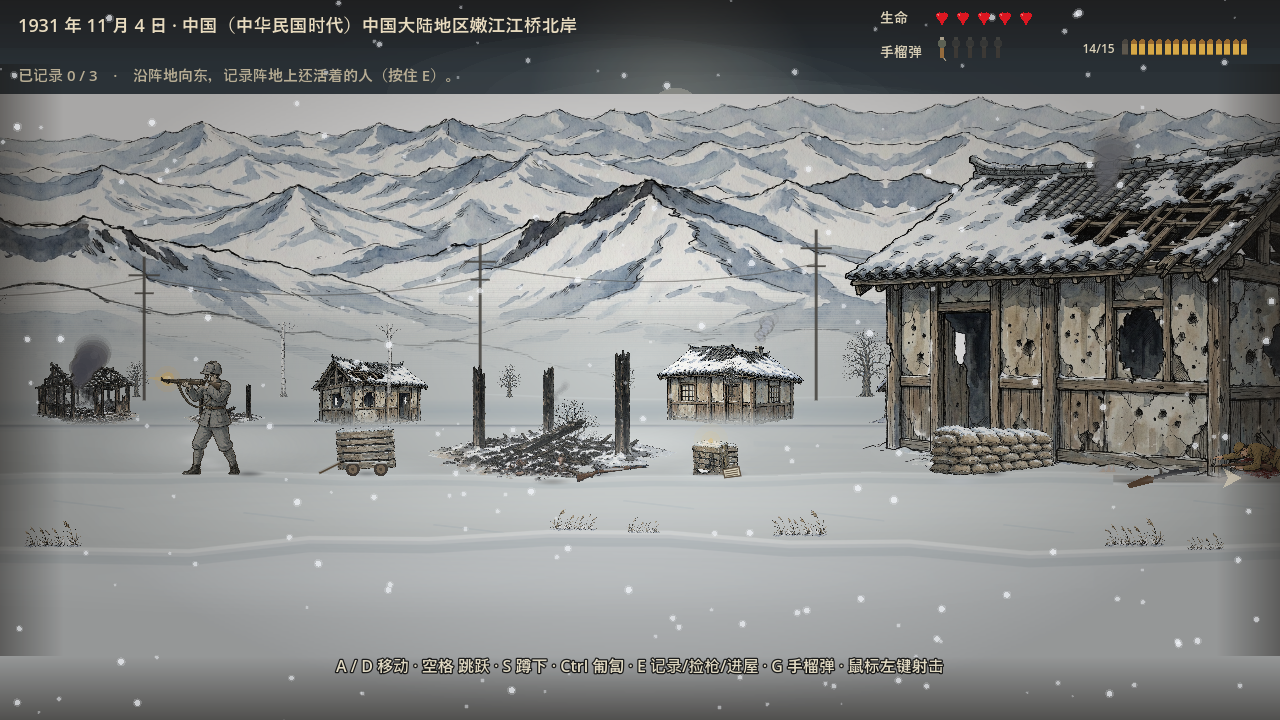
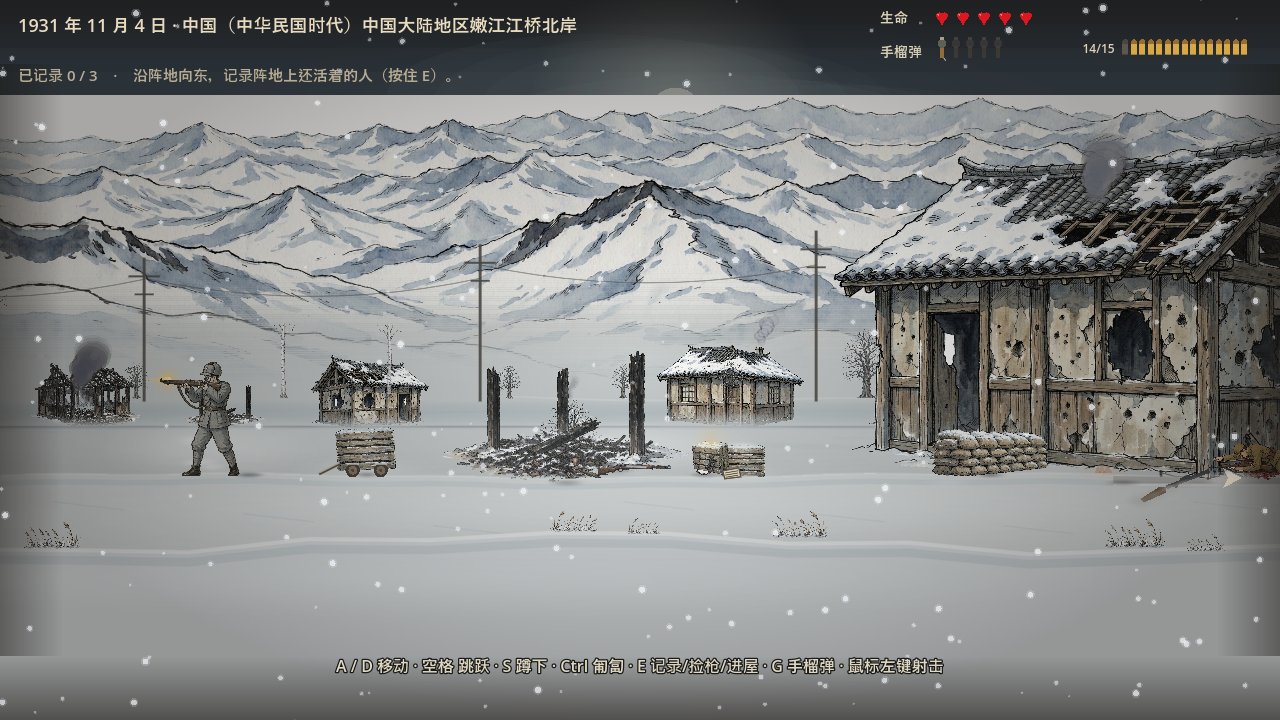
v3.25 the track has to run onto the bridge
The player played it again and found the last thing that still read as fake:
the bridge and the rails do not connect. The span looked like a texture
dropped on top of the field with no link to the track in front of it.

The cause was the draw order. The railway was painted first and the bridge
was painted over the end of it, so the line simply stopped in open snow a
few pixels short of the span - the rails vanished under the bridge's west
edge and the bridge stood next to them like a separate picture.

The span is laid down first now and the track is laid over it:

  - the ballast bed and the sleepers of the open field stop at the west
    end of the deck (a railway bridge carries its track on a steel plate,
    it has no ballast)
  - the same ties carry on over the deck, shallower because on a steel
    deck they lie flat instead of sunk in ballast, and in the same tone
    as the field's so the two halves are one line
  - both rails run across the deck and stop at the collapsed span (source
    column 870 of bridge.png), where they end in twisted steel and broken
    sleepers instead of a clean cut
  - the ties in the last 150px before the deck are never skipped - one
    missing tie left a bare strip of ballast at the joint and the line
    read as cut off again
  - the shell damage to the track stops before the bridge, so no twisted
    stubs grow out of the deck

The bridge frame is also frozen at a fixed x for the gallery shot, it used
[…]

diff --git a/scripts/JiangqiaoLevel.cs b/scripts/JiangqiaoLevel.cs
@@ -2754,6 +2754,20 @@ public partial class JiangqiaoLevel : Node2D
         private float[] _crateRot = System.Array.Empty<float>();
         private int[] _railSkipIdx = System.Array.Empty<int>();       // 被去掉的枕木序号（破损感）
         private float[] _railDmgX = System.Array.Empty<float>();      // shell damage spots along the whole rail line
+
+        /// <summary>
+        /// Where the span stands in world coordinates, measured off
+        /// bridge.png (1530x812, drawn with a vertical scale of 420/812 and
+        /// shifted 48px east): the deck starts at source column 9 and the
+        /// collapsed span begins at source column 870.
+        ///
+        /// v3.25: the railway needs both numbers. The track has to run
+        /// onto the deck and stop at the wreck - otherwise the line is cut
+        /// off in front of the bridge and the two read as two pictures
+        /// laid side by side with nothing joining them.
+        /// </summary>
+        private const float BridgeDeckX = 4457f;
+        private const float BridgeWreckX = 4902f;
         private int[] _trussSkipDiags = System.Array.Empty<int>();    // 桥桁架被去掉的斜腹杆
         private int[] _pierDamageIdx = System.Array.Empty<int>();     // 被炮弹蹭过的桥墩（画烧黑斑）
 
@@ -2814,9 +2828,12 @@ public partial class JiangqiaoLevel : Node2D
 
             // shell damage strung out along the whole run of track, not only
             // where the big craters sit - shelling never lands in one spot
+            // v3.25: it stops before the bridge. The track on the span has
+            // no sleepers to twist, and the twisted stubs would have been
+            // painted over the deck.
             var railDmg = new List<float>();
             float dmgX = 2620f;
-            while (dmgX < WorldW - 120f)
+            while (dmgX < BridgeDeckX - 90f)
             {
                 bool nearCrater = false;
                 for (int i = 0; i < _craterX.Length; i++)
@@ -2865,12 +2882,18 @@ public partial class JiangqiaoLevel : Node2D
             }
 
             DrawRiverIce();
+            // v3.25: the span is laid down BEFORE the track now. It used to
+            // be painted over the rails, which cut the line dead in front
+            // of the bridge - the user called it "the bridge and the rails
+            // do not connect, a texture just stuck on top with nothing
+            // linking them". With the bridge down first the railway can
+            // run onto the deck and stop where the span is blown apart.
+            DrawBridge();
             DrawRailway();
             DrawSupplyCart();
 
             DrawCraters();
             DrawRailBlastDamage();
-            DrawBridge();
             DrawTrenchLines();
         }
 
@@ -3103,6 +3126,23 @@ public partial class JiangqiaoLevel : Node2D
             var skip = new HashSet<int>(_railSkipIdx);
             float railY = GroundY - 1f;
 
+            // v3.25: the track now runs ONTO the bridge.
+            //
+            //   fieldEnd - the open field's ballast bed and its sleepers
+            //              stop at the west end of the deck. A railway
+            //              bridge carries its track on a steel plate, it
+            //              has no ballast and no sleepers.
+            //   trackEnd - the rails carry on across the deck and stop
+            //              where the span is blown apart. Past that there
+            //              is no bridge left to run on.
+            //
+            // Before this the whole line was drawn first and the bridge
+            // was painted over the end of it, so the track stopped in
+            // mid snow and the bridge stood next to it like a separate
+            // picture - no joint, no rails running onto the deck.
+            float fieldEnd = BridgeDeckX;
+            float trackEnd = BridgeWreckX;
+
             // a crater sitting on the rail line means the shelling broke the
             // track - skip sleepers and leave a gap in the rails there, so the
             // pits read as battlefield damage instead of holes punched through
@@ -3125,21 +3165,25 @@ public partial class JiangqiaoLevel : Node2D
             // ballast bed: packed darker snow with a gently wavy top edge so
             // it doesn't read as a ruler-straight line drawn on white paper
             var ballast = new List<Vector2>();
-            for (float x = 2380f; x <= WorldW + 60f; x += 38f)
+            for (float x = 2380f; x <= fieldEnd; x += 38f)
                 ballast.Add(new Vector2(x, railY + 2f + Mathf.Sin(x * 0.021f) * 1.6f - Mathf.Sin(x * 0.053f) * 0.8f));
-            ballast.Add(new Vector2(WorldW + 60f, railY + 22f));
+            ballast.Add(new Vector2(fieldEnd, railY + 22f));
             ballast.Add(new Vector2(2380f, railY + 22f));
             DrawColoredPolygon(ballast.ToArray(), new Color(0.73f, 0.755f, 0.765f, 0.5f));
             // soft top-edge highlight following the same wave
             var topEdge = new List<Vector2>();
-            for (float x = 2380f; x <= WorldW + 60f; x += 38f)
+            for (float x = 2380f; x <= fieldEnd; x += 38f)
                 topEdge.Add(new Vector2(x, railY + 2f + Mathf.Sin(x * 0.021f) * 1.6f - Mathf.Sin(x * 0.053f) * 0.8f));
             DrawPolyline(topEdge.ToArray(), new Color(0.90f, 0.925f, 0.93f, 0.7f), 2.6f, false);
 
             int k = 0;
-            for (float x = 2400; x < WorldW; x += 34, k++)
+            for (float x = 2400; x < fieldEnd; x += 34, k++)
             {
-                if (skip.Contains(k) || OnRailCrater(x + 11f)) continue;
+                // v3.25: the last stretch before the deck is never skipped.
+                // One missing tie right at the joint leaves a bare strip of
+                // ballast between the field and the bridge and the line
+                // reads as cut off again.
+                if ((skip.Contains(k) && x < fieldEnd - 150f) || OnRailCrater(x + 11f)) continue;
                 // each sleeper got own height/brightness jitter (deterministic,
                 // picture stays stable between frames)
                 float jy = Mathf.Sin(k * 12.9898f) * 2.2f;
@@ -3162,13 +3206,43 @@ public partial class JiangqiaoLevel : Node2D
                         new Color(0.93f, 0.95f, 0.95f, 0.8f), 2.0f, true);
             }
 
+            // v3.25: the track on the bridge deck. The painting shows a bare
+            // steel plate with snow along its edge, so there is no ballast
+            // there - but the track has to keep its rhythm across the joint
+            // or the line looks like it stops at the bridge. The same ties
+            // carry on over the deck, just shallower, because on a steel
+            // deck the ties are laid flat instead of sunk in ballast.
+            // They go in BEFORE the rails, so the rails stay on top of them
+            // exactly like they are on the open field.
+            for (float x = 2400f; x < trackEnd; x += 34f)
+            {
+                if (x < fieldEnd) continue;
+                // the same tone as the field's sleepers, so the two halves
+                // of the track are one line and not two kinds of wood
+                int tk = Mathf.RoundToInt((x - 2400f) / 34f);
+                float shade = 0.40f + 0.06f * Mathf.Sin(tk * 3.7f);
+                InkStyle.InkRect(this, new Rect2(x, railY + 3f, 22, 9),
+                    new Color(shade, shade * 0.80f, shade * 0.60f), InkStyle.InkColor, InkStyle.ThinStroke);
+            }
+            // a dark seat under the rails, and the last stretch of ballast
+            // tapering into it
+            DrawColoredPolygon(new[]
+            {
+                new Vector2(fieldEnd - 26f, railY + 2f),
+                new Vector2(trackEnd, railY + 2f),
+                new Vector2(trackEnd, railY + 9f),
+                new Vector2(fieldEnd - 26f, railY + 11f),
+            }, new Color(0.30f, 0.28f, 0.25f, 0.55f));
+
             // two parallel rails: broken at the craters, drawn as short intact
             // segments with steel sheen. snow caps sit on top in short patches.
+            // v3.25: they carry on across the bridge deck and stop at the
+            // wrecked span, so the line and the bridge are one thing.
             foreach (float ry in new[] { railY, railY + 12 })
             {
                 // ink base, segmented around the blast gaps
                 float segStart = 2400f;
-                for (float x = 2400f; x <= WorldW; x += 10f)
+                for (float x = 2400f; x <= trackEnd; x += 10f)
                 {
                     if (OnRailCrater(x) || NearRailDmg(x, 9f))
                     {
@@ -3177,12 +3251,12 @@ public partial class JiangqiaoLevel : Node2D
                         segStart = x + 10f;
                     }
                 }
-                if (WorldW - segStart > 4f)
-                    DrawLine(new Vector2(segStart, ry), new Vector2(WorldW, ry), InkStyle.InkColor, InkStyle.BoldStroke, true);
+                if (trackEnd - segStart > 4f)
+                    DrawLine(new Vector2(segStart, ry), new Vector2(trackEnd, ry), InkStyle.InkColor, InkStyle.BoldStroke, true);
 
                 // steel sheen only on the intact lengths
                 segStart = 2400f;
-                for (float x = 2400f; x <= WorldW; x += 10f)
+                for (float x = 2400f; x <= trackEnd; x += 10f)
                 {
                     if (OnRailCrater(x) || NearRailDmg(x, 9f))
                     {
@@ -3191,12 +3265,16 @@ public partial class JiangqiaoLevel : Node2D
                         segStart = x + 10f;
                     }
                 }
-                if (WorldW - segStart > 4f)
-                    DrawLine(new Vector2(segStart, ry), new Vector2(WorldW, ry), new Color(0.85f, 0.86f, 0.84f), 1.6f, true);
+                if (trackEnd - segStart > 4f)
+                    DrawLine(new Vector2(segStart, ry), new Vector2(trackEnd, ry), new Color(0.85f, 0.86f, 0.84f), 1.6f, true);
             }
 
+            // the track is torn apart where the span is blown out: the rails
+            // do not just stop, they end in twisted steel
+            DrawTornTrackEnd(trackEnd, railY);
+
             // 轨顶积雪：短促的亮段（不是通条白线，雪是被风一段段吹积的），避开被炸断处
-            for (float sx = 2420; sx < WorldW; sx += 88)
+            for (float sx = 2420; sx < trackEnd; sx += 88)
             {
                 if (OnRailCrater(sx) || NearRailDmg(sx, 20f)) continue;
                 float seg = 14f + Mathf.Sin(sx * 0.07f) * 8f;
@@ -3205,11 +3283,45 @@ public partial class JiangqiaoLevel : Node2D
             }
 
             // scattered gravel / ice specks on the ballast so it isn't a flat wash
-            for (float gx = 2410; gx < WorldW; gx += 57f)
+            for (float gx = 2410; gx < fieldEnd; gx += 57f)
             {
                 if (OnRailCrater(gx) || NearRailDmg(gx, 12f)) continue;
                 float gy = railY + 8f + Mathf.Sin(gx * 0.13f) * 4f;
                 DrawCircle(new Vector2(gx, gy), 1.4f, new Color(0.62f, 0.64f, 0.66f, 0.7f));
+            }
+        }
+
+        /// <summary>
+        /// The end of the track on the bridge. The rails do not simply stop
+        /// where the span is blown apart - they end in twisted steel, the
+        /// way a rail tears when the structure under it goes. Without this
+        /// the line stopped in a clean cut and read as a rendering seam
+        /// rather than as a destroyed bridge.
+        /// </summary>
+        private void DrawTornTrackEnd(float x, float railY)
+        {
+            var rng = new RandomNumberGenerator();
+            rng.Seed = 19311104u;
+            foreach (float ry in new[] { railY, railY + 12 })
+            {
+                for (int s = 0; s < 3; s++)
+                {
+                    float len = rng.RandfRange(7f, 15f);
+                    float tilt = 0.30f + 0.42f * s + rng.RandfRange(-0.12f, 0.12f);
+                    float dx = len * Mathf.Cos(tilt);
+                    float dy = -len * Mathf.Sin(tilt);
+                    DrawLine(new Vector2(x, ry), new Vector2(x + dx, ry + dy),
+                        InkStyle.InkColor, InkStyle.ThinStroke, true);
+                    DrawCircle(new Vector2(x + dx, ry + dy), 1.2f, new Color(0.85f, 0.86f, 0.84f));
+                }
+            }
+            // splintered ties and kicked up snow around the break
+            for (int s = 0; s < 7; s++)
+            {
+                float px = x + rng.RandfRange(-18f, 14f);
+                float py = railY + rng.RandfRange(3f, 14f);
+                DrawLine(new Vector2(px, py), new Vector2(px + rng.RandfRange(-5f, 5f), py + rng.RandfRange(-2f, 3f)),
+                    new Color(0.30f, 0.26f, 0.22f, 0.85f), 1.6f, true);
             }
         }
 
@@ -3295,7 +3407,11 @@ public partial class JiangqiaoLevel : Node2D
                 // concrete, and the bank edge of the frozen river sits just
                 // under it - so the bridge is standing on the ground
                 // instead of hovering over it.
-                float bx = start + (end - start - bw) * 0.5f + 48f;
+                //
+                // BridgeDeckX is the deck's west end in world coordinates
+                // and the railway is laid along it - both come from the
+                // same two measurements off the painting.
+                float bx = BridgeDeckX - 9f * (bh / bsz.Y);
                 // v3.17 seat fix: the old note claimed the deck sits at 53% of
                 // the texture height and put row 430 on the rail line. A row
                 // scan of bridge.png says otherwise - the truss runs 0-340,

diff --git a/scripts/Capture.cs b/scripts/Capture.cs
@@ -168,7 +168,18 @@ public partial class Capture : Node
             SaveShot("capture_10c_burnedhouse.png");
             _stage = 18;
         }
-        else if (_stage == 18 && (PlayerX() > 4300f || _t > 42f))
+        else if (_stage == 18 && PlayerX() > 4290f)
+        {
+            // v3.25: freeze the runner at a fixed spot so the bridge frame
+            // lands the same way every time - the shot used to depend on
+            // where the run happened to be when the frame fired, and the
+            // span drifted in and out of the picture.
+            Input.ActionRelease("move_right");
+            _lvl._player.Position = new Vector2(4350f, JiangqiaoLevel.GroundY - 2f);
+            GD.Print("CAPTURE stage18 -> frozen at the bridge");
+            _stage = 19;
+        }
+        else if (_stage == 19 && _t > 46f)
         {
             // v3.15: was PlayerX() > 2760 - that fired while the runner was
             // still halfway down the level, so the "burnt village" frame
@@ -176,11 +187,11 @@ public partial class Capture : Node
             // bridge often fell outside the shot. Wait until he reaches the
             // bridge itself so the frame always shows the burnt village AND
             // the span, and stops drifting from run to run.
-            GD.Print("CAPTURE stage18 -> shot burnt village x="+PlayerX());
+            GD.Print("CAPTURE stage19 -> shot burnt village x="+PlayerX());
             SaveShot("capture_11_burnt.png");
-            _stage = 19;
+            _stage = 20;
         }
-        else if (_stage == 19 && _t > 46f)
+        else if (_stage == 20 && _t > 48f)
         {
             GD.Print("CAPTURE done");
             GetTree().Quit();

diff --git a/README.md b/README.md
@@ -190,7 +190,12 @@
 - **② 房屋墙高按 1.5 个人的身高重做**：一个人 114px（立绘 108px × 玩家缩放 1.06）。v3.19 也做过"墙高 1.5 人高"，但那时候士兵缩到 0.87（94px），后来士兵改回 1.06 而**墙高没跟着改**，房子悄悄缩成 1.02 人高——实机截图里站在农舍前的人跟农舍一样高。现在按檐口（屋顶收口那条线，也就是眼睛真正拿来跟人比的线）重算：`h = (1.5×114.5 + 10) / (1 - 檐口行/贴图高)`，完好的房子 390→**557**、残破的房子 412→**583**；**烧毁的房子（焦壳 / 断柱）保持原尺寸**（没墙可量的残骸不该有墙高，而且站着的房子必须更大村子才立得住）。实测新截图：墙高 165–175px vs 士兵 110px ≈ **1.5 人高**。
 - **③ 敌人按远近分尺寸**：同一波三个人站三条 lane（-48 / 0 / +48），过去只有明暗差别、三个人一样高，一眼看穿是同一张贴图。现在近排 1.00 / 中排 0.92 / 远排 0.82（脚底原点不动，人还是踩在雪线上，只是身子小了），实机截图里远排士兵 92px、中排 105px、近排 114px。
 - **④ 桥按 2.5 个人的身高重做，并且坐到地上**：过去桥顶只到人肩（雪线以上 179px = 1.57 人高）。贴图 1530×812 而桥的跨度只有 800px，整体等比放大 1.55× 会把中段烧毁的桁架顶出关卡，所以**桁架纵向加深、桥墩保持原比例**（钢桁架本来就该深，桥墩也不该被拉成竹竿）：桁架区（贴图 0–355 行）用 0.827 的纵向比例重绘，桥面行仍精确落在铁轨线上，桥顶正好 286px（2.5 人高）在雪线之上；桥墩区（355–812 行）按原比例绘制，**接缝落在桥面行上，不会有错位**。西端悬空的问题没有再用灰盒子去补——v3.15 那次加的"西桥台"正是被玩家说成"雪地里一个灰方块"的东西；现在把整座桥**东移 48px**，让桥面末端正好落在贴图自带的那座混凝土桥墩上（画里本来就有），跨度西端因此从"伸在空雪上方"变成"踩在河岸边自己的墩子上"。
-- **⑤ 接地复核**：房屋沉雪 8px、尸体贴雪、弹坑压雪、证词箱/木箱/沙袋全部走同一套影子，桥墩脚用软雪堆埋掉硬切边，本轮没有新增悬空物件。截图巡游新增一站（`capture_10c_burnedhouse.png`，烧毁屋屋内火特写），13 张实机截图 0 报错；关卡图库六张重拍并把缓存戳升到 `?v=3.25`。
+- **⑤ 桥跟铁轨接上了（用户复检的最后一项）**：用户原话「那个桥跟铁轨感觉接不上……突然间一个贴图贴在上面没有连接和关联性」。查下来是**画序错了**：铁轨先画、桥后画，桥把铁轨的末端盖掉，于是轨道在桥前面硬生生断掉，桥自己像另一张贴图。改法 —— **桥先画，铁轨后画**，让轨道真的铺到桥面上：
+  - 野外的道砟与枕木停在桥面西端（钢桥面是钢板，不铺道砟），但**枕木的节奏一路铺上桥面**（钢桥上的枕木是平铺的，比野外浅一点），所以轨道看上去是一条不断的线；
+  - **两根钢轨一路过桥**，停在桥被炸断的地方（贴图第 870 列），断口不是干净切口，而是**扭断的钢轨头 + 碎木**——轨道是被炸断的，不是画到头了；
+  - 桥前最后 150px 的枕木**不许被随机跳过**（跳过一根就会在接头处留一段空道砟，又变成"轨道断了"）；
+  - 铁轨的炸毁点也收在桥前（`dmgX < BridgeDeckX - 90`），桥面上不再冒出土里长出来的扭断轨头。
+- **⑥ 接地复核**：房屋沉雪 8px、尸体贴雪、弹坑压雪、证词箱/木箱/沙袋全部走同一套影子，桥墩脚用软雪堆埋掉硬切边，本轮没有新增悬空物件。截图巡游新增一站（`capture_10c_burnedhouse.png`，烧毁屋屋内火特写），并把桥头那张图改成**定点冻结**在 x=4350（以前看跑到哪儿算哪儿，桥在画面里进进出出），13 张实机截图 0 报错；关卡图库六张重拍并把缓存戳升到 `?v=3.25`。
 
 | 项目 | 改动前 | 改动后 |
 |------|--------|--------|
@@ -201,6 +206,7 @@
 | 敌人身高 | 三条 lane 全是 114px | 近 114 / 中 105 / 远 92 |
 | 桥高（雪线→桁架顶） | 179px = **1.57 人高** | 286px = **2.5 人高**（桁架加深，桥墩原比例） |
 | 桥西端 | 45px 桥面悬在空雪上方 | 桥面末端落在画里自带的那座混凝土桥墩上 |
+| **铁轨与桥** | **轨道在桥前硬断，桥像另一张贴图** | **轨道铺上桥面一路过桥，在炸断处断成扭断的钢轨** |
 
 | 项目 | 改动前 | 改动后 |
 |------|--------|--------|
@@ -489,7 +495,7 @@
 
 | 版本 | 要点 |
 |------|------|
-| v3.25 | 火焰分层 + 房屋人高 + 人物景深 + 桥接地：①**火按屋内/屋外拆层**——过去烟和火同在 `_smokeWorld`(-1) 且该层在房子前面，"屋里烧的火"反而浮在墙上；现在拆成 4 个火焰层 + 1 个烟柱层（地面 -10 / 靴印 -8 / 远景屋内火 -7 / 远景房 -6 / 远景屋外火 -5 / 近景屋内火 -4 / 近景房 -3 / 近景屋外火 -2 / 烟柱 -1 / 人 0），**屋内火在房子图层之后**（洪水填充扫出贴图里真实挖穿的窗口洞，火从洞里透出、墙框压在火前），**屋外火在房子图层之前**；②**没烧毁的房子墙高重做到 1.5 人高**——v3.19 那次的 1.5 人高是配 0.87 缩放的兵算的，兵改回 1.06 后墙没跟着改，房子缩成 1.02 人高（人跟农舍一样高）；现按檐口行重算宽度 390→557 / 412→583，**烧毁的房子尺寸不变**；③**敌人按 lane 分尺寸**（近 1.00 / 中 0.92 / 远 0.82，脚底不动），实机 114/105/92px；④**桥按 2.5 人高重做并坐到地上**——贴图 1530×812 而跨度只有 800px，等比放大 1.55× 会把烧毁桁架顶出关卡，故桁架纵向加深（0.827）而桥墩保持原比例，接缝落在桥面行；西端悬空不再用灰盒子补（v3.15 那个"西桥台"正是被说成"雪地里一个灰方块"的），改为**整桥东移 48px**，桥面末端落到画里自带的那座混凝土桥墩上；⑤接地复核无新增悬空物件，截图巡游加一站烧毁屋内火特写，13 张 0 报错 |
+| v3.25 | 火焰分层 + 房屋人高 + 人物景深 + 桥接地 + 铁轨接桥：①**火按屋内/屋外拆层**——过去烟和火同在 `_smokeWorld`(-1) 且该层在房子前面，"屋里烧的火"反而浮在墙上；现在拆成 4 个火焰层 + 1 个烟柱层（地面 -10 / 靴印 -8 / 远景屋内火 -7 / 远景房 -6 / 远景屋外火 -5 / 近景屋内火 -4 / 近景房 -3 / 近景屋外火 -2 / 烟柱 -1 / 人 0），**屋内火在房子图层之后**（洪水填充扫出贴图里真实挖穿的窗口洞，火从洞里透出、墙框压在火前），**屋外火在房子图层之前**；②**没烧毁的房子墙高重做到 1.5 人高**——v3.19 那次的 1.5 人高是配 0.87 缩放的兵算的，兵改回 1.06 后墙没跟着改，房子缩成 1.02 人高（人跟农舍一样高）；现按檐口行重算宽度 390→557 / 412→583，**烧毁的房子尺寸不变**；③**敌人按 lane 分尺寸**（近 1.00 / 中 0.92 / 远 0.82，脚底不动），实机 114/105/92px；④**桥按 2.5 人高重做并坐到地上**——贴图 1530×812 而跨度只有 800px，等比放大 1.55× 会把烧毁桁架顶出关卡，故桁架纵向加深（0.827）而桥墩保持原比例，接缝落在桥面行；西端悬空不再用灰盒子补（v3.15 那个"西桥台"正是被说成"雪地里一个灰方块"的），改为**整桥东移 48px**，桥面末端落到画里自带的那座混凝土桥墩上；⑤**铁轨接上桥**——用户复检的最后一项「桥跟铁轨感觉接不上……突然间一个贴图贴在上面」：根因是**画序**（铁轨先画、桥后画，桥把轨道末端盖掉了），改成**桥先画、铁轨后画**，枕木节奏一路铺上桥面、两根钢轨过桥、在贴图第 870 列（桥被炸断处）断成**扭断的钢轨头 + 碎木**；桥前最后 150px 的枕木不再随机跳过（跳过一根就在接头处留一段空道砟，又变成"轨道断了"）；铁轨炸毁点收在桥前，桥面不再冒出土里长出来的轨头；⑥接地复核无新增悬空物件，截图巡游加一站烧毁屋内火特写并把桥头那张定点冻结在 x=4350，13 张 0 报错 |
 | v3.24 | 桥还原原图 + 碉堡移除：①v3.21–v3.23 连着三轮改造桥（压色阶/去饱和/叠蓝雾/补墨线/改中性色），**每一轮都更远离关卡**——原图的铆接钢桁架本来就跟焦黑木屋、雪山同一套语言，是我多此一举去改它；现在 `bridge.png` 原样绘制，`bridge_painted.png` 删除；②尸体后面的「四四方方格子」= v3.22 的沙袋面，从 1449px 沙袋图裁 477×299 压到 96×60，**4×2.6 颗沙袋挤进 96px 每颗成小方块**，尸体正好躺在上面像床垫；③碉堡从 v3.17 到现在换过四种做法（纯灰梯形→平涂贴图→裁片贴图→预缩贴图）**每一种都被玩家指出不对**，跟这个场景的美术语言合不来，且关卡工事已够多（四道沙袋墙/四段铁丝网/弹坑/战壕/烧毁房/桥）→ 整体移除，尸体落回开阔雪地；④尸体回 3870 仰卧；⑤地图五图差异 0.00%–0.19% 未动，六张关卡图重拍 |\n| v3.23 | 碉堡糊成灰板 + 桥的调子：①尸体（3870 日军仰卧）背后那块是 3835 的碉堡，v3.22 用 `DrawTextureRectRegion` 从 1449px 沙袋图裁 **701px** 塞进 **91px** → GPU 取最高层 mip，整个碉堡塌成**边缘笔直的淡灰方板**；改为把沙袋面预缩成 `bunker_face.png` 96×60、游戏里近 1:1 绘制；②第一个碉堡在 1550，v3.19 放大房子后 f2 占位变 1294–1644，碉堡（1543–1632）**整块埋在房子底下**，现挪到 **800** 的开阔雪地；③桥太淡是**明度**问题：钢梁 (172,178,182) vs 雪地 (181,185,185)，和雪一样亮所以溶进背景 → 改成**钢/雪分离**映射，钢 118–160（= 雪山暗部实测 124,132,138）、雪 228–240；④按 alpha 外扩 2px 给每根钢梁画 **(50,53,60)** 墨线（全场是墨线+水彩，桥没有墨线才像 3D 渲染）；⑤色相从 (144,152,165) 改成中性冷灰（场景实测 107,109,109 / 133,134,132）；⑥弹坑 512px→~100px、靴印 202px→26px 同样有 mip 问题，各自预缩到 160×139 / 64×37，靴印墨线柔化；⑦地图五图差异 0.00%–0.19% 未动，六张关卡图重拍 |\n| v3.22 | 碉堡重做 + 弹坑 + 足迹 + 桥回炉：①v3.21 桥的明暗压太扁成了**纸板剪影**（用户贴图回来），色阶压缩放松（γ0.44→0.72、幅度 0.27→0.44、模糊 2.8→1.8）恢复体积；②**「金字塔」真凶是碉堡不是桥**——`DrawColoredPolygon` 画的纯灰梯形 + 硬边黑矩形射击孔，是全场唯一没贴图的物件 → 改用 `sandbags.png` 真沙袋贴图（`DrawTextureRectRegion` 裁一段保持原始大小）+ 柔和熏黑射击孔 + 软斑积雪；③`crater.png` 坑底是深蓝且被压到 45% 高，看着像一滩水 → 素材重映射（去蓝 55%、坑底偏暖、坑口冷白）+ 压缩放松到 58%；④`footprint.png` 整张是「一块雪斑+一个靴印」，26px 下只剩淡蓝雪斑，像一排水洼 → 切出靴印 `bootprint.png` 重映射成雪地压痕；⑤自己的 bug：`SoftSnow.Blob` 是 40×40 单位精灵，缩放要除以 40，写错导致 **1600×124 大白片盖住整个碉堡**；⑥地图五图差异 0.00%–0.17% 未动，六张关卡图重拍 |\n| v3.21 | 尸体躺平 + 桥的画风：①`corpse_ija_supine` 的**身体主轴实测 +18.10°**（用 alpha 轮廓二阶矩量），v3.19 的补偿数字取自底边轮廓扫描（10.66°）且**符号反了**，等于把角度叠上去 → 渲染斜近 29° 像半坐的伤兵；现在按主轴角抵消（旋转取反号、镜像时再翻一次）；②旋转支点从身体一端改到**身体正中**（原代码注释写的是 center，写的却是 `HeadSign()*len*0.5`），脚那头不再被甩离雪面；③五具预置尸体的姿势**改为关卡写死**（1270 俯卧/2505 仰卧/1550 俯卧/3870 仰卧/4300 俯卧），此前每次开局重掷导致「这局看着对、下局就坏了」；④桥贴图 `bridge.png` 是**写实 3D 渲染**，跟全场水彩不搭（玩家说的「金字塔」= 桁架 + 桥墩三角破冰尖角）→ 预处理 `bridge_painted.png`：模糊 + 明暗压色阶（γ0.44）+ 淡冷灰（近雪面更雾）+ 叠 7% 淡蓝雾；⑤地图五图差异 0.00%–0.19% 未动，六张关卡图重拍 |\n| v3.20 | 门口的黑色平板（门标记画成了贴纸）：①`EnterableHouse` 里 v3.5 起画的那块 `DrawRect` 近黑板是全场唯一平涂色块，格格不入；②它正好盖住贴图里画好的门（完好房的棕色木板门带圆把手、残破房撕开的门洞透白光），黑板高度只有门洞七成，门洞上沿露在黑板上方看着像塞了块板；③平板按 `_w*0.18` 摆而完好房的门画在 0.479–0.531，位置也对不上 → 整块删掉，门口改为按贴图逐张记的 `DoorSpec`（完好房 0.492 / 残破房 0.200），`DoorX` 触发点同步修正；④烧毁房架没门可寻，把完好房贴图里那扇木板门切出成 `door_leaf.png` 挂回焦黑门框（同笔触、略倾斜、熏黑一点）；⑤地图五图差异 0.00%–0.15% 未动，六张关卡图重拍 |\n| v3.19 | 桥面白线 + 尸体摆平 + 房屋比例 + 辎重车画风：①删掉 DrawBridge 里那条从 4406 画到 5194 的 3px 纯白直线（浮在桁架上方、与雪山不同调的亮streak）；②尸体贴图自身就带 -4.1°~+10.7° 倾角，代码又叠最多 12.6° 随机旋转 → 双重倾斜像从坡上滑下来，现用 `_texTilt` 抵消贴图倾角、随机收到 ±3.4°；③远景屋重排（house_intact@285 与 village@470 只差 1px、屋顶咬合；@2990 与 house_posts@3040 重叠 30px）→ 全部留出间隙；④完整房墙高实测只有士兵 1.03 倍（v3.5 量的是到屋脊不是到墙）→ 房放大 1.25×、兵缩到 0.87（108→94px），墙高 1.49 倍人高，沙包 54→47、碉堡 96×62→84×54、尸体长度同步缩小，房屋位置微调 40–64px 不再重叠；⑤辎重车整只平涂矩形+纯色圆盘 → 车身改用 crate.png 贴图（同一支画笔）+ 辐条轮 + 断车把，并从独立节点改到 GroundArt 里跟弹坑木箱一起画，轨道从身后过；⑥地图五图零差异未动 |
 | v3.18 | 白边根修 + 位置重排：①抠图残留的**轮廓白边**（RGB 仍留 (255,255,255)，背景顺抗锯齿边渗成一指宽纯白带）→ 距离变换 + 纯白判据，21 张贴图全清，榆树一棵 68330 px；②尸体 #5 从桥跨度内（4400–5200）挪到 x=4300 开阔雪地并下沉到路肩，铁轨从身后过；③撤掉整垛堵在桥头（4400/桥台 4386–4470）的沙包 4388；④铁丝网桩改用共享的沙包基底表，落进沙包的桩自动跳过、桥头段不越 4360；⑤辎重车从视差层搬到世界层，重画成木纹车斗 + 六辐条轮 + 车把 + 断轴杆，缩到玩家身高四分之一，站在关卡开头 x=280；⑥丢弃步枪倾角 ±0.85→±0.38 弧度，不再像插着的木棍；⑦全资产连通域普查 + 整关 12 机位实机扫描，榆树残留白块 22→0；地图五图零差异未动 |
 | v3.17 | 铁轨爬桥 + 白底收尾 + 尸体/碉堡比例修正：①铁轨与桥面错位 40px 的真 bug（代码按「贴图 53% 处是桥面」摆放，实测承轨面在第 355 行）→ 改为把第 355 行对到轨道线，铁轨连续爬上桥；②tree_elm 树冠间 9.4 万 px 不透明纯白 → 用「离枝干 > 6px 的亮像素一律抠掉」判据，树冠透空、枝干与枝上雪絮保留；③桁架里 13225 px 近白碎点与半透明白纱再清 22953 px；④尸体长度收 10%（122-138 → 110-124，与士兵身高相当）；⑤碉堡放大 56×38 → 96×62（齐胸高）并加混凝土接缝与污渍，不再是平涂灰板；⑥废弃辎重车整体下沉 30px，轮子陷入雪里 6px；⑦地图五图零差异未动 |
